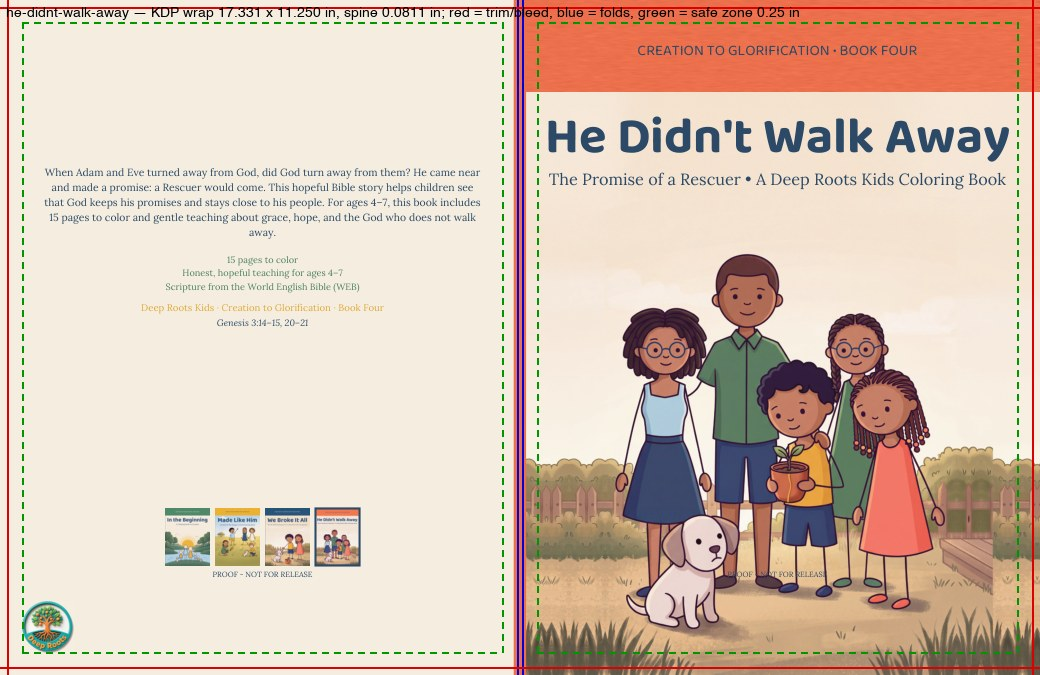
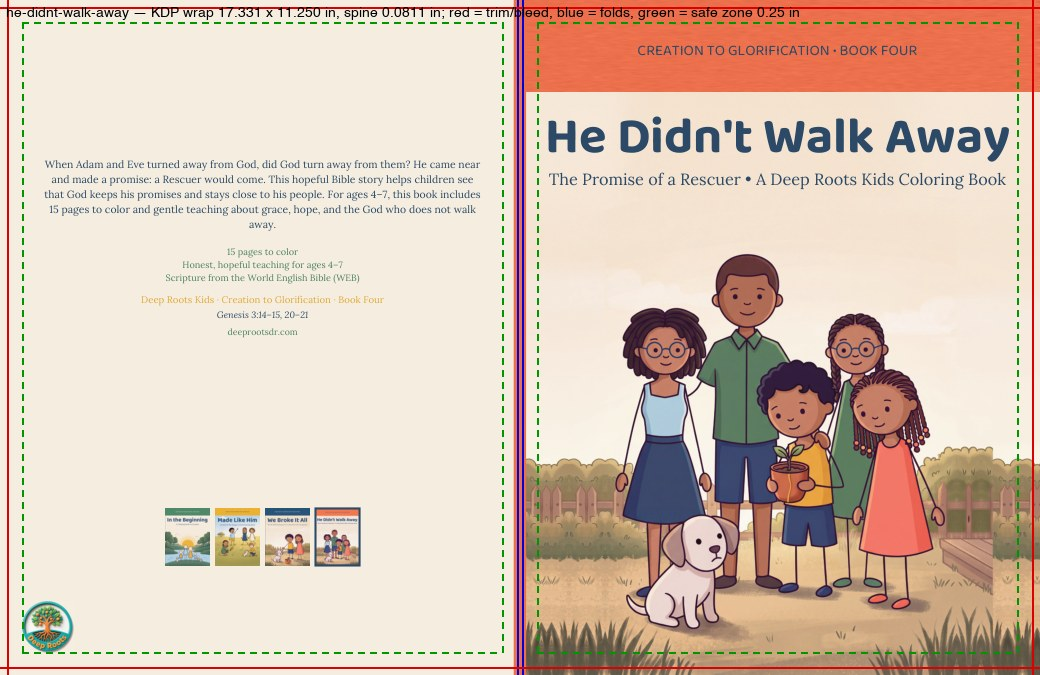
he-didnt-walk-away: RELEASE — website line (editor 2026-10-17), release builds for KDP + Lulu (Lulu interior pure DeviceGray; covers rasters 399–427 ppi), all preflights + print_table + Lulu-check PASS; listing with verification table and spec sources
cover.py: back logo and the series-strip self thumbnail resampled to 400 ppi (Lulu: none above 600).
provenance images recorded; disclosure TEXT None, images AI-generated with extensive editing.
Book total $7.23 of $12. Awaiting the editor's uploads and YOUR CALL items (price, finish, ISBNs,
categories, QR code).

Changed region(s): [[0.0308, 0.2178, 0.4615, 0.4978], [0.7077, 0.84, 0.8, 0.8711], [0.2154, 0.84, 0.3077, 0.8711]]

diff --git a/scripts/cover.py b/scripts/cover.py
@@ -205,6 +205,7 @@ if GRID:
     LOGO_SRC = "kids/_brand/logo/dr-kids-logo.png"
     _lg = Image.open(LOGO_SRC).convert("RGBA")
     _bg = Image.new("RGBA", _lg.size, "#F7EEDD"); _bg.alpha_composite(_lg)
+    _lpx = int(LW / IN * 400); _bg = _bg.resize((_lpx, _lpx), Image.LANCZOS)   # 400 ppi at print size (Lulu: none above 600)
     _lpath = f"{BOOK}/cover/_logo-back-cmyk.jpg"
     ImageCms.applyTransform(_bg.convert("RGB"), _XF).save(_lpath, quality=96)
     c.drawImage(ImageReader(_lpath), BACK_L + SAFE, BLEED + SAFE, width=LW, height=LW, mask=None)
@@ -251,7 +252,9 @@ if GRID:
                 SELF = sys.argv[sys.argv.index("--strip-self") + 1] if "--strip-self" in sys.argv else None
                 if SELF:
                     _sp = f"{BOOK}/cover/_strip-self-cmyk.jpg"
-                    ImageCms.applyTransform(Image.open(SELF).convert("RGB"), _XF).save(_sp, quality=JPEG_Q or 95)
+                    _si = Image.open(SELF).convert("RGB"); _sw = int(sw_ / IN * 400)   # 400 ppi at the strip's printed size
+                    _si = _si.resize((_sw, int(_sw * _si.height / _si.width)), Image.LANCZOS)
+                    ImageCms.applyTransform(_si, _XF).save(_sp, quality=JPEG_Q or 95)
                     c.drawImage(ImageReader(_sp), x, sy, width=sw_, height=sh, mask=None)
                 else:
                     c.setFillColor(SIG); c.rect(x, sy, sw_, sh, stroke=0, fill=1)

diff --git a/he-didnt-walk-away/publishing/kdp-listing.md b/he-didnt-walk-away/publishing/kdp-listing.md
@@ -1,0 +1,159 @@
+# Listing Reference — He Didn't Walk Away (KDP + Lulu)
+
+Book Four, Deep Roots Kids · Creation to Glorification. Figures marked **CONFIRMED** were read
+from the built release files on 2026-10-17 (`scripts/print_table.py`, both preflights,
+`lulu_verify`). Items marked **YOUR CALL** are decisions, not facts. Nothing here is printed in the book.
+
+> **Release status (2026-10-17): RELEASE BUILDS DONE.** Four files built with `--release`
+> (no proof stamp): `out/interior.pdf`, `out/cover.pdf` (KDP); `out/interior-lulu.pdf` (pure
+> DeviceGray, Book One Lulu fixes applied), `out/cover-lulu.pdf` (Lulu). Interior + cover preflights
+> PASS on both targets; `print_table.py` PASS; Lulu-check emulation PASS; text QA 0 fail; WEB
+> fidelity 0; provenance 41 human · 6 public-domain · 0 AI-drafted. **Not uploaded** — the editor
+> uploads after ordering proofs (checklists below).
+
+## Book details (both platforms)
+
+| Field | Value | Source |
+|---|---|---|
+| Title | He Didn't Walk Away | author (my-words, confirmed; straight apostrophe — F6) |
+| Subtitle | The Promise of a Rescuer • A Deep Roots Kids Coloring Book | author (my-words, confirmed) |
+| Series | Creation to Glorification, Book 4 | editor brief (numeral only in the platforms' series field; print says "Book Four") |
+| Author / contributor | **Deep Roots** — exactly as Books One to Three on KDP and Lulu. Schwarz is credited only through the About the Author page | editor ruling 2026-10-01 |
+| Publisher / imprint | **Deep Roots Publishing** (ruled 2026-10-16; Books One to Three list Deep Roots Kids) | editor ruling |
+| Copyright | © 2026 Deep Roots Publishing | author (p2, holder at the editor's instruction 2026-10-17) |
+| Edition | First edition, 2026 | author (p2) |
+| Language | English | |
+| Reading age | 4–7 | author (back cover) |
+| Page count | **36 — CONFIRMED**, even | built interiors |
+| Interior | Black & White, white paper, 15 single-sided illustrations | |
+| Trim | 8.5 × 11 in | |
+| Scripture | Genesis 3:14–15, 20–21 (WEB) | book.yaml scripture_scope |
+
+## Description (both platforms) — the author's back-cover blurb, verbatim
+
+> When Adam and Eve turned away from God, did God turn away from them? He came near and made a promise: a Rescuer would come. This hopeful Bible story helps children see that God keeps his promises and stays close to his people. For ages 4–7, this book includes 15 pages to color and gentle teaching about grace, hope, and the God who does not walk away.
+
+No AI mention anywhere in the description or the printed book (authorship-policy §3).
+
+## Categories and keywords — **YOUR CALL** (suggestions to choose from, not prose)
+
+KDP keywords (7 slots): christian coloring book for kids · bible story coloring book genesis 3 ·
+adam and eve promise coloring book · gods promise of a rescuer for kids · sunday school coloring
+activity ages 4-7 · christian homeschool preschool · deep roots kids.
+
+Lulu keywords (comma-separated): christian coloring book, genesis 3:15, adam and eve, promise of
+a rescuer, bible for kids, sunday school, ages 4-7, deep roots kids.
+
+Categories / BISAC to check in each platform's live picker (names change; confirm at upload):
+Juvenile Nonfiction › Religious › Christian › Activity Books; Juvenile Nonfiction › Activity Books ›
+Coloring; Juvenile Nonfiction › Religious › Christian › Early Readers. Use the same choices as
+Books One to Three (Book Three on KDP: Children's › Activity Books › Coloring Books › Nonfiction;
+Children's › Religions › Christianity › Bible › Stories).
+
+## AI content disclosure (upload forms only — never printed)
+
+Expected: text **None**, images **AI-generated with extensive editing**, translation **None**.
+
+<!-- disclosure:begin -->
+_Generated by `scripts/disclosure.py he-didnt-walk-away --update-listing` — do not edit by hand. Answer KDP's AI-content questions from this audit, and re-run it after any text or image change._
+
+```
+Disclosure audit — he-didnt-walk-away  (2026-10-17, from provenance.yaml)
+
+TEXT: None
+  47 units: human 41 · public-domain 6 · ai-drafted 0 · unresolved/empty 0
+IMAGES — interior: AI-generated (many images); editing extensive — selection among 46 attempts over three rounds, plan re-scenes, threshold, frame strip, edge-sliver strip, stroke thickening (p25), vectorisation (2026-10-17); hand corrections in art/limbfix.py (p5 sky wind marks erased; p27 hairline seam drawn; p29 the model's crack erased and the seam drawn)
+IMAGES — cover: AI-generated (front art front-art-01, gemini-3.1-flash-image 4K, from a B&W stick reference ref-mended-b-02); editing extensive — scaled to 84% and sky/sides extended from the painting's own sky and hedge strip (cover/retouch_extend.py, 2026-10-17), then crop, banner, ICC conversion to CMYK, series strip, typography and layout added by the pipeline
+TRANSLATIONS: none
+```
+<!-- disclosure:end -->
+
+## Verification table — release files (2026-10-17)
+
+Tools: `scripts/print_table.py` (PyMuPDF + pdfplumber: page sizes, fonts, image ppi, spine and
+barcode zones), `scripts/preflight.py` / `preflight-cover.py`, `scripts/lulu_verify.py`
+(stand-in for `pdfinfo` / `pdffonts` / `pdfimages -list` / `gs inkcov`, which are not installed —
+it reads the same properties from the PDF objects), CMYK render for ink coverage.
+
+| File | Pages | Size (in) | Fonts | Images | Colour | Transparency | Ink (heaviest page) | Spine / barcode |
+|---|---|---|---|---|---|---|---|---|
+| KDP interior `out/interior.pdf` | 36 | 8.5 × 11.0 on every page | 3, all embedded | 1 (logo p1) DeviceGray 310 ppi | K-only (CMYK 0/0/0/100), no RGB | none | K 6.6 % (p29) | — |
+| KDP cover `out/cover.pdf` | 1 | 17.331 × 11.25 | 4, all embedded | all DeviceCMYK, 400–427 ppi | CMYK | none | C 12 / M 21 / Y 26 / K 4 = 63 % total | spine 0.0811 in blank; 2.0 × 1.2 in barcode box clear (min lum 239) |
+| Lulu interior `out/interior-lulu.pdf` | 36 | 8.75 × 11.25 on every page (0.125 in bleed) | 3, all embedded | 1 (logo) DeviceGray 310 ppi | **pure DeviceGray** (all colour operators rewritten: g/G) | none (no SMask, no alpha) | K 6.6 % (p29) | — |
+| Lulu cover `out/cover-lulu.pdf` | 1 | 17.391 × 11.25 | 4, all embedded | all DeviceCMYK, 399–427 ppi (none above 600) | CMYK | none | 63 % total (limit 270 %) | spine 0.1411 in blank; 3.0 × 1.5 in barcode box clear |
+
+Spines computed from the FINAL page count (36): KDP 36 × 0.002252 = 0.0811 in (white paper);
+Lulu 36 / 444 + 0.06 = 0.1411 in (60# white uncoated). PDF version 1.4 (Lulu accepts 1.3–1.7;
+PDF/X-1a not required for Lulu Direct — flagged if their checker asks).
+
+Spec sources — checked live 2026-10-17 (re-check on upload day):
+- KDP "Create a Paperback Cover" (white-paper spine = pages × 0.002252 in; 0.125 in bleed; KDP
+  places the barcode if none supplied): https://kdp.amazon.com/en_US/help/topic/G201953020
+- KDP "Set Trim Size, Bleed, and Margins" (0.125 in bleed; 24–150 pp gutter ≥ 0.375 in, outside
+  ≥ 0.25 in no-bleed): https://kdp.amazon.com/en_US/help/topic/GVBQ3CMEQW3W2VL6
+- KDP "Paperback Submission Guidelines": https://kdp.amazon.com/en_US/help/topic/G201857950
+- Lulu Book Creation Guide (PDF; spine (pages ÷ 444) + 0.06 in; its lookup table differs from the
+  formula at higher page counts — confirm against the downloaded cover template):
+  https://assets.lulu.com/media/guides/en/lulu-book-creation-guide.pdf
+- Lulu "What is full bleed" (0.125 in on every side):
+  https://help.lulu.com/en/support/solutions/articles/64000255584-what-is-full-bleed-
+- Lulu "Cover Tool Guide" (0.5 in safety margin for text and important content):
+  https://help.lulu.com/en/support/solutions/articles/64000279983-cover-tool-guide
+- Lulu recommended interior PDF settings (fonts embedded, resolution, colour):
+  https://help.api.lulu.com/en/support/solutions/articles/64000254609-what-are-the-recommended-settings-for-the-interior-pdf-
+Note: Lulu's pages disagree on the cover safety margin (0.5 / 0.25 / 0.125 in); this book keeps
+0.5 in on all sides, the strictest, as the house safe zone.
+
+---
+
+## Amazon KDP
+
+| Field | Value |
+|---|---|
+| Interior file | `out/interior.pdf` — **8.5 × 11.0 in, no bleed, 36 pp — CONFIRMED** |
+| Cover file | `out/cover.pdf` — **17.331 × 11.25 in**, spine **0.0811 in** (36 × 0.002252, white paper), Kindled Coral, no spine text; CMYK; lowest raster 400 ppi; series grid with series strip + website line — CONFIRMED |
+| Spine text | None — KDP allows spine text only above 79 pages |
+| Bleed setting | No bleed (interior) |
+| Ink / paper | Black & white, white paper |
+| Barcode | "Cover includes barcode" stays **unticked** — KDP places it; 2.0 × 1.2 in box bottom-right of the back panel kept clear (CONFIRMED) |
+| Cover finish | **YOUR CALL** — Book Three is matte on both platforms |
+| ISBN | **YOUR CALL — own Deep Roots Publishing (MVB) ISBN** (ruled 2026-10-16): assign one to this KDP edition and enter it as "own ISBN" so the imprint reads Deep Roots Publishing. Never KDP's free ISBN. Record it in book.yaml `isbn.kdp` |
+| Price | **YOUR CALL** — Books One to Two at $9.99, Book Three at $10.99 / 10.99 EUR incl. VAT; stay at **$9.99 or above** for the full paperback royalty; verify in KDP's calculator |
+| QR code to Track 4 videos | **YOUR CALL** — only if the Track 4 videos are published on the channel; none is in the files now |
+
+Checklist:
+- [x] All 47 text units the author's own or WEB; both KDP files built with `--release`; preflight PASS (2026-10-17)
+- [ ] Re-check the cover size in KDP's **current cover calculator** for 36 pp, white paper, 8.5 × 11 (expected 17.331 × 11.25 in)
+- [ ] Upload interior and cover; KDP reports 36 pages; previewer accepts the wrap
+- [ ] Author field "Deep Roots"; series "Creation to Glorification", Book 4; imprint Deep Roots Publishing with your own ISBN
+- [ ] Answer the AI questions from the disclosure block above
+- [ ] Set price, finish, categories, keywords
+- [ ] **Order one physical proof copy before publishing**
+
+## Lulu
+
+| Field | Value |
+|---|---|
+| Format | Paperback, perfect bound, US Letter 8.5 × 11 in |
+| Interior colour / paper | Standard Black & White, 60# white uncoated |
+| Interior file | `out/interior-lulu.pdf` — **8.75 × 11.25 in, 0.125 in bleed all sides, 36 pp, pure DeviceGray, no transparency — CONFIRMED** (Lulu paperback minimum 32: met) |
+| Cover file | `out/cover-lulu.pdf` — **17.391 × 11.25 in**, spine **0.1411 in** (36/444 + 0.06), Kindled Coral, no text; 0.5 in safety; CMYK; rasters 399–427 ppi — CONFIRMED |
+| Spine text | None — Lulu allows spine text only above 80 pages |
+| Barcode | 3.0 × 1.5 in box bottom-right of the back panel kept clear, 0.5 in from the trim (CONFIRMED; verify against Lulu's template) |
+| Cover finish | **YOUR CALL** — matte (as Book Three) or gloss |
+| ISBN | **YOUR CALL** — Lulu Direct store sales need none (Books One to Three); if Lulu retail distribution is enabled, a **separate** Deep Roots Publishing ISBN, never the KDP one. Record it in book.yaml `isbn.lulu` |
+| Price | **YOUR CALL** — Book Three is 10.99 EUR on deeprootsdr.com (Woo) |
+
+Checklist:
+- [x] Both Lulu files built with `--release`; preflight + Lulu-check emulation PASS (2026-10-17)
+- [ ] After uploading the interior, download Lulu's **current cover template** and confirm its spine is 0.1411 in for 36 pp on 60# white; rebuild the cover if it differs
+- [ ] Upload cover (browser cap 10 MB — use `cover.py --jpeg-quality 88` into `out/upload/` if the file is larger); review Lulu's file-check report
+- [ ] Author field "Deep Roots"; publisher Deep Roots Publishing
+- [ ] Lulu Direct: publish the project, then "Add A Product" on deeprootsdr.com (file under Books + Kids, tag Deep Roots Kids)
+- [ ] **Order one proof copy before publishing**
+
+## Curriculum bundle
+
+Volume 1's bundle (Lessons 1–4) waits on this book. The Book Four cover and a listing-link
+placeholder were added to the curriculum bundle checklist (c2g-curriculum BLUEPRINT.md,
+2026-10-17); fill in the live KDP/Lulu links once published.

diff --git a/he-didnt-walk-away/plan/my-words.md b/he-didnt-walk-away/plan/my-words.md
@@ -857,9 +857,24 @@ Scripture from the World English Bible (WEB)
 
 ---
 
+### `cover.website_line` — back-cover-website · back cover
+
+- **Pointer:** the series website line under the series strip (brief §6); added at your instruction
+  2026-10-17 ("add the website") as the site's domain — a fact, not prose. Change the form here if
+  you want "www." or a path.
+- **Current status:** inserted at the editor's instruction 2026-10-17
+
+**MY TEXT:**
+
+deeprootsdr.com
+
+**MY TEXT STATUS:** confirmed
+
+---
+
 ### Not units (for the record)
 
 - **Back-cover headline:** no such slot exists in the series grid (F10). If you rule one in, it
-  becomes a registered unit here.
+  becomes a registered unit here. (The website line IS a unit since 2026-10-17 — above.)
 - **Spine text:** none — 36 pages is below both printers' spine-text minimums (KDP 80, Lulu 81).
 - **Alt-text:** production metadata, not printed (F25).
